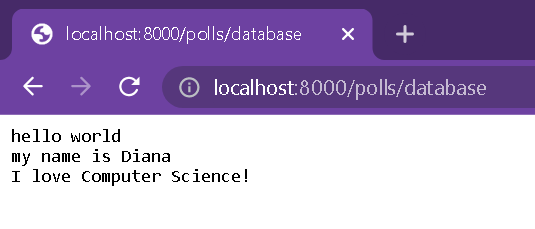
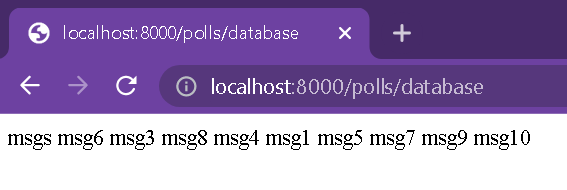
consul

Changed region(s): [[0.0, 0.0263, 1.0, 0.6316], [0.0, 0.6579, 0.957, 0.8158], [0.0, 0.0526, 0.5682, 0.3158]]

diff --git a/logger/polls/views.py b/logger/polls/views.py
@@ -3,30 +3,18 @@ from django.http import HttpResponse
 from django.views.decorators.csrf import csrf_exempt
 from .models import Entry
 from django.core import serializers
+from .connection_to_hazelcast import log_msg, get_msgs
 import json
 # Create your views here.
 @csrf_exempt
 def receive(request):
     if request.method == 'GET':
-        data = serializers.serialize( "python", Entry.objects.all() )
-        if len(data) == 0:
-            data = "no data yet"
-        else:
-            data = [i['fields'] for i in data]
-            keys = list(data[0].keys())[:2]
-            keys = keys[0].rjust(10) + " " + keys[1]
-            data = [[i[k] for k in i] for i in data]
-            #data = [str(i[0]).rjust(10)+" "+i[1] for i in data]
-            data = [i[1] for i in data]
-            #data = [keys]+data
-            #response = f"<pre>{json.dumps(data, indent=1)}</pre>"
-            data = '\n'.join(data)
-        response = f"<pre>{data}</pre>"
-        return HttpResponse(response)
+        data = get_msgs()
+        return HttpResponse(data)
     if request.method != 'POST':
         return HttpResponse("unsupported method")
     # if a POST
     msg = json.loads(request.body)
-    entry = Entry.objects.create(UUID=msg['UUID'], msg=msg['msg'])
-    print(msg)
+    if not log_msg(msg):
+        return HttpResponse("Message not logged")
     return HttpResponse("OK")

diff --git a/logger/polls/connection_to_hazelcast.py b/logger/polls/connection_to_hazelcast.py
@@ -1,0 +1,29 @@
+import os
+import hazelcast
+from .hazelcast_client import client
+
+def log_msg(msg):
+	print("received a message", msg['msg'])
+	hazelcast_url = os.environ.get('HAZELCAST_URL', False)
+	if not hazelcast_url:
+		print("can't find hazelcast - no url provided")
+		return False
+	storage = client.get_map("messages")
+	storage.put(msg['UUID'], msg['msg'])
+	return True
+
+def get_msgs():
+	print("hello getting messages")
+	hazelcast_url = os.environ.get('HAZELCAST_URL', False)
+	if not hazelcast_url:
+		print("can't find hazelcast url")
+		return "Error occurred"
+	print("hazelcast on", hazelcast_url)
+	print("creating hazelcast client")
+	#client = hazelcast.HazelcastClient(cluster_name="message-database", cluster_members=[hazelcast_url])
+	print("created client")
+	storage = client.get_map("messages")
+	print("got map")
+	data = storage.values().result()
+	print("received values")
+	return "\n".join([str(i) for i in data])

diff --git a/logger/polls/hazelcast_client.py b/logger/polls/hazelcast_client.py
@@ -1,0 +1,8 @@
+import hazelcast
+import os
+print("importing")
+hazelcast_url = os.environ.get('HAZELCAST_URL', False)
+hazelcast_cluster = os.environ.get('HZ_CLUSTERNAME', False)
+print("hazelcast_cluster", hazelcast_cluster, "hazelcast_url", hazelcast_url)
+client = hazelcast.HazelcastClient(cluster_name=hazelcast_cluster, cluster_members=[hazelcast_url])
+print("created client")
